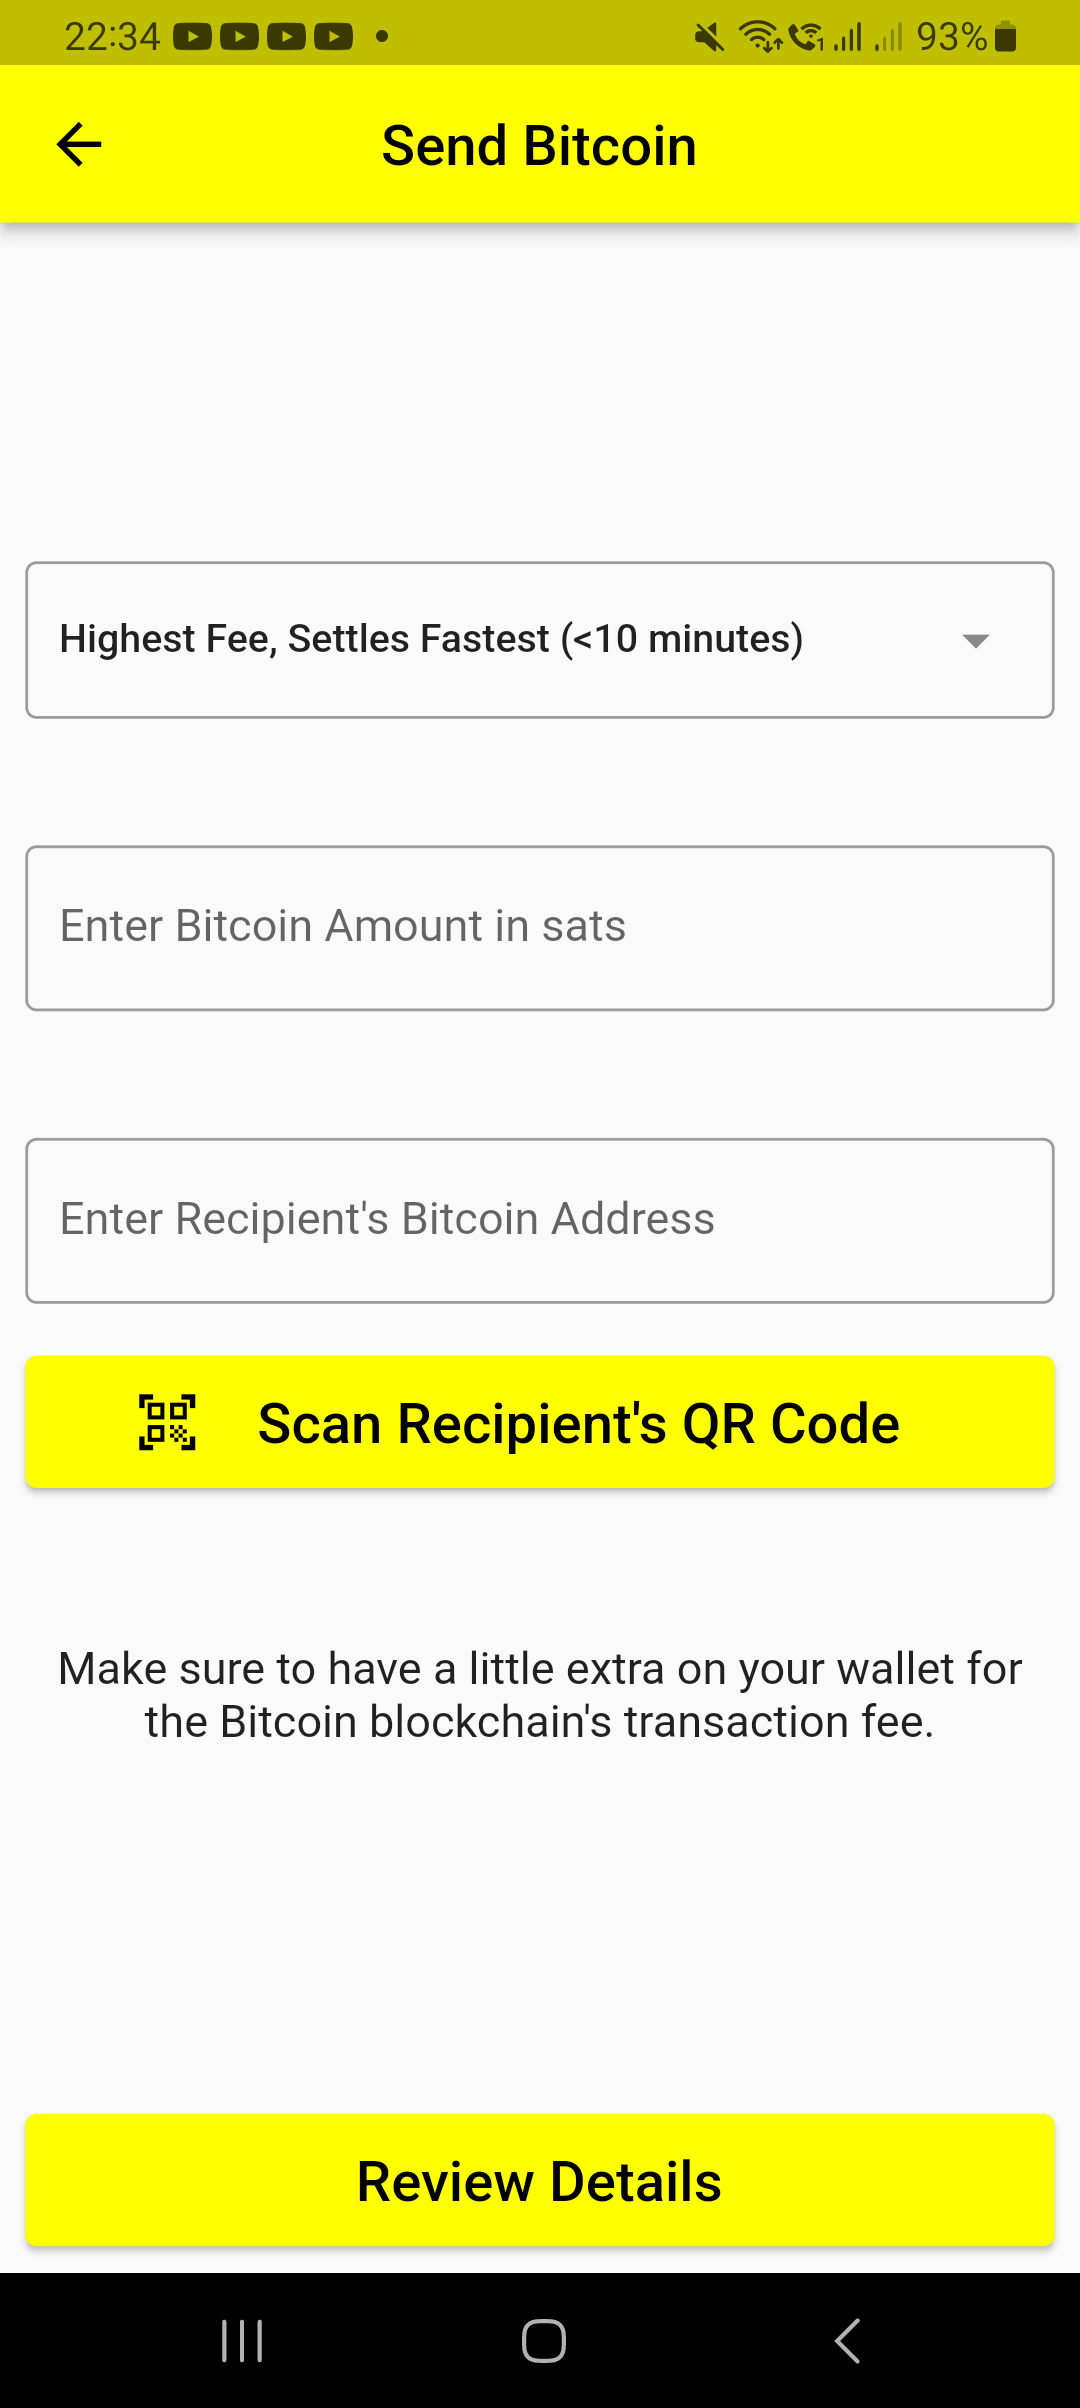
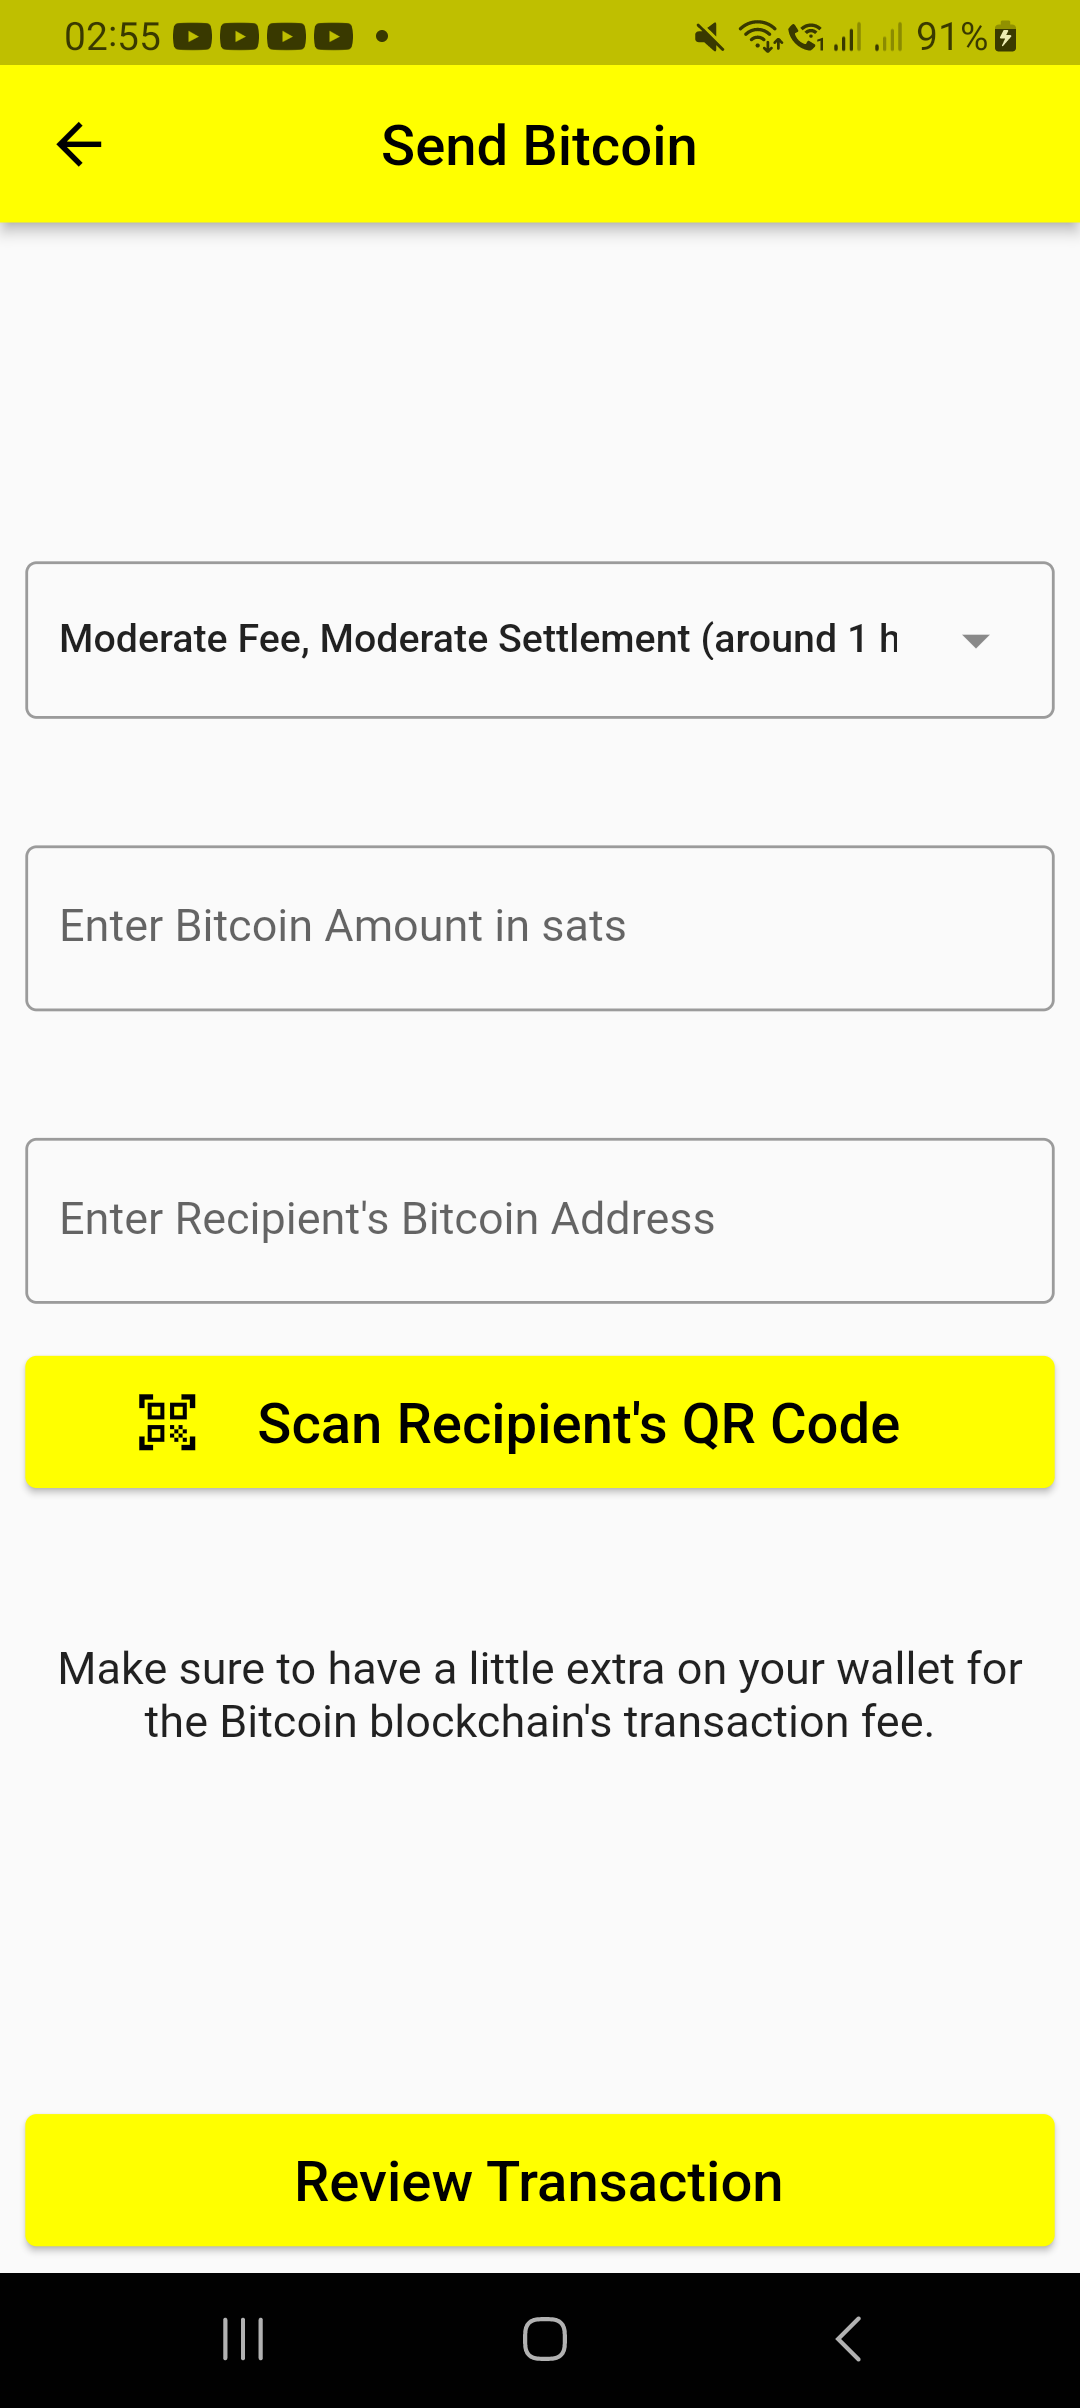
fixed wording on transaction page, corrected a screenshot

diff --git a/lib/pages/sendbitcoinpage.dart b/lib/pages/sendbitcoinpage.dart
@@ -230,7 +230,7 @@ class _SendPage extends State<SendBitcoinPage> {
           child: const Padding(
               padding: EdgeInsets.all(12.0),
               child: Text(
-                "Review Details",
+                "Review Transaction",
                 style: TextStyle(fontSize: 20.0),
               )),
         ),
